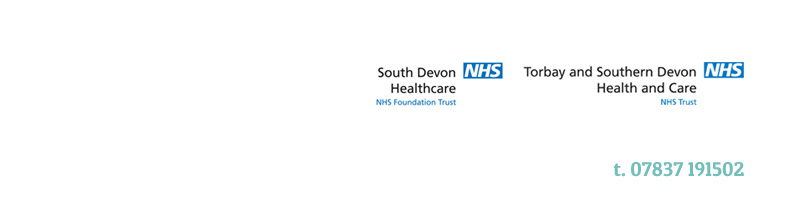
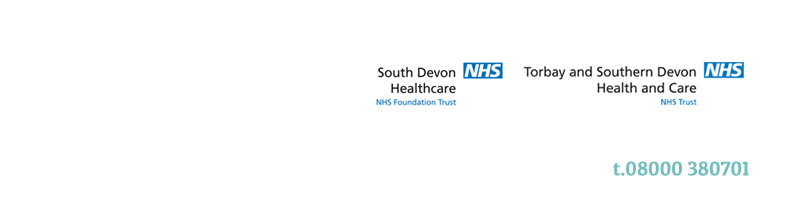
new header image for devonstudioschool

Changed region(s): [[0.75, 0.7397, 0.9375, 0.8219]]

diff --git a/config/deploy.rb b/config/deploy.rb
@@ -24,5 +24,3 @@ after "deploy:create_symlink" do
   run "ln -s #{shared_path}/constants.php #{current_path}/assets/includes/constants.php"
   run "chmod a+rw -R #{current_path}"
 end
-
-after "deploy:finalize_update", "db:db_config"
